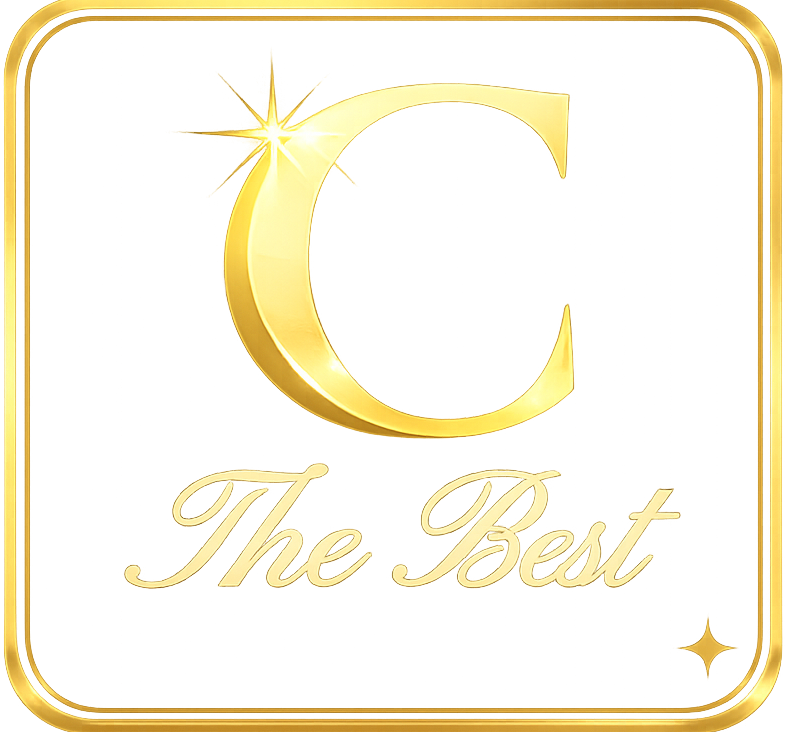
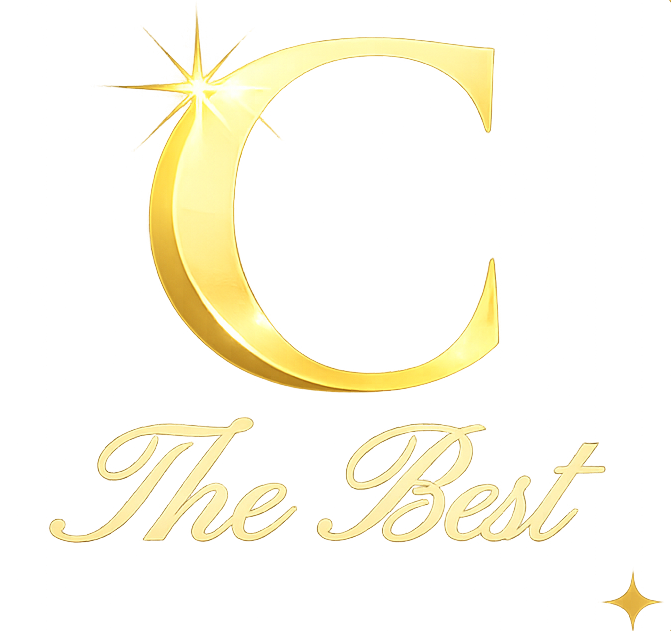
feat: optimize mobile menu and search state
Refactor mobile state management in App.tsx and update app icon. Ensure search query and mobile search state are cleared upon opening a movie.

Changed region(s): [[0.0, 0.0, 1.0, 1.0]]

diff --git a/src/App.tsx b/src/App.tsx
@@ -711,6 +711,8 @@ export default function App() {
     return localStorage.getItem("isAdmin") === "true";
   });
   const [searchQuery, setSearchQuery] = useState("");
+  const [isMobileMenuOpen, setIsMobileMenuOpen] = useState(false);
+  const [isMobileSearchOpen, setIsMobileSearchOpen] = useState(false);
   const [showWishlistModal, setShowWishlistModal] = useState(false);
   const [recentlyViewed, setRecentlyViewed] = useState<any[]>([]);
 
@@ -1296,6 +1298,8 @@ export default function App() {
   };
 
   const handleOpenMovie = (movie: Movie, immediatePlay = false) => {
+    setSearchQuery("");
+    setIsMobileSearchOpen(false);
     if (immediatePlay) {
       // Enregistrer le temps du clic initial
       (window as any).moviePlayClickTime = performance.now();
@@ -1405,10 +1409,6 @@ export default function App() {
     if (!targetId) return null;
     return allMovies.find(m => m.id === targetId) || null;
   }, [routePath, allMovies]);
-
-  // Mobile interaction states
-  const [isMobileMenuOpen, setIsMobileMenuOpen] = useState(false);
-  const [isMobileSearchOpen, setIsMobileSearchOpen] = useState(false);
 
   // Intercept and return the standalone full-screen cinema view with zero overlay UI
   if (activeTab === "player") {